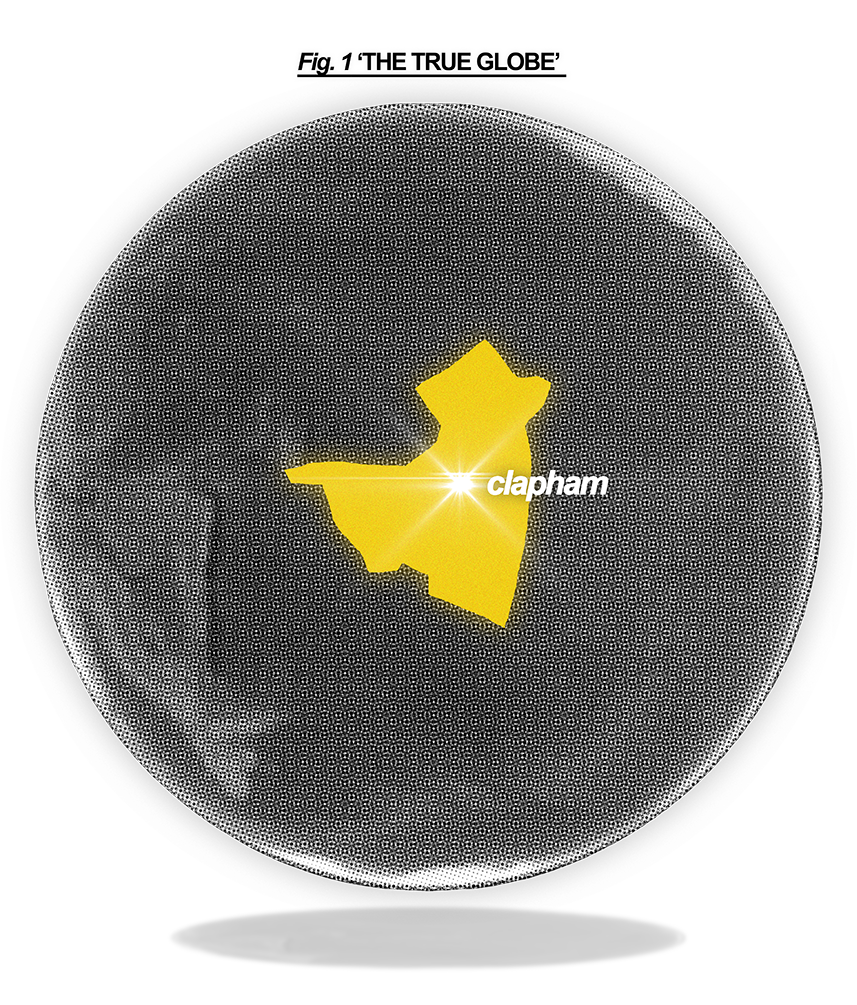
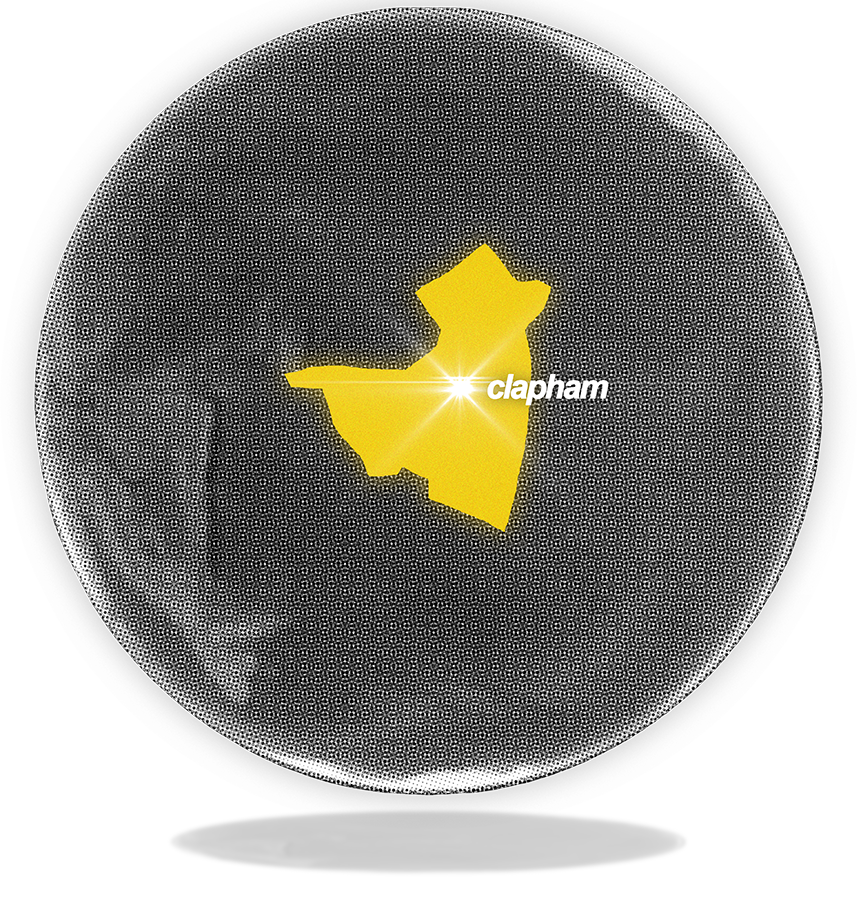
animation changes

diff --git a/index.html b/index.html
@@ -17,7 +17,29 @@
 
             <img id="logo" src="eye of ciff.png" />
 
-            <img id="globe" src="true globe2.png" alt="wireframe globe" />
+            <div id="globe-animation">
+                <img id="globe" src="true globe2.png" alt="wireframe globe with yellow outline of Clapham" />
+            </div>
+
+            <script>
+                //const orbitText = "the centre of the universe starts now";
+                const orbitText = "thecentreoftheuniversestartsnow";
+                const animationContainer = document.getElementById("globe-animation");
+                let offset = 0;
+                for (let char of orbitText.split("")) {
+                    console.log("hello");
+                    const letter = document.createElement("h1");
+                    letter.innerHTML = char;
+                    letter.classList.add("universe");
+                    const container = document.createElement("div");
+                    container.classList.add("universe-container");
+                    container.append(letter);
+                    container.style.animationDelay = `${(offset - 30) / 3}s`;
+                    container.style.top = `${-200 - offset * 30}px`;
+                    offset++;
+                    animationContainer.append(container);
+                }
+            </script>
 
             <p id="globe-caption"><span>Fig. 1</span>'THE TRUE GLOBE APPEARS'</p>
 
@@ -36,7 +58,7 @@
                 <img class="poster" src="film-poster.png" />
             </div>
 
-            <h1 id="universe">the centre of the universe starts now</h1>
+            <h1 class="universe">the centre of the universe starts now</h1>
 
             <p><span>knock@ciff.uk</span> if you're lost</p>
 

diff --git a/styles.css b/styles.css
@@ -63,6 +63,7 @@ body {
     flex-direction: column;
     align-items: center;
     margin: 10px;
+    overflow: hidden;
 }
 
 #title-image {
@@ -99,6 +100,8 @@ input {
     width: 90%;
     max-width: 400px;
     margin-top: 20px;
+    position: relative;
+    z-index: 1;
 }
 
 #globe-caption {
@@ -136,8 +139,69 @@ button:active {
     border: 1px black solid;
 }
 
-#universe {
+#globe-animation {
+    display: flex;
+    width: 100%;
+    max-width: 500px;
+    height: 400px;
+    flex-direction: column;
+    align-items: center;
+}
+
+.universe {
+    margin: 0px;
+    transform: rotate3d(1, 0, 0, 42deg);
     font-family: BookmanOldStyle;
+    text-shadow: 1px 1px 0 #ffffff, -1px 1px 0 #ffffff, -1px -1px 0 #ffffff, 1px -1px 0 #ffffff;
+}
+
+.universe-container {
+    top: -210px;
+    position: relative;
+    z-index: 2;
+    width: 30px;
+    height: 30px;
+
+    animation: saturn 13s infinite linear;
+}
+
+@keyframes saturn {
+    0% {
+        left: -45%;
+        z-index: 0;
+        font-size: 20px;
+        transform: rotate3d(0, 0, 1, 90deg);
+    }
+    25% {
+        left: 0%;
+        z-index: 0;
+        font-size: 10px;
+        transform: rotate3d(0, 0, 1, 180deg);
+    }
+    49% {
+        left: 45%;
+        z-index: 0;
+        font-size: 20px;
+        transform: rotate3d(0, 0, 1, 270deg);
+    }
+    50% {
+        left: 45%;
+        z-index: 2;
+        font-size: 20px;
+        transform: rotate3d(0, 0, 1, 270deg);
+    }
+    75% {
+        left: 0%;
+        z-index: 2;
+        font-size: 25px;
+        transform: rotate3d(0, 0, 1, 360deg);
+    }
+    100% {
+        left: -45%;
+        z-index: 2;
+        font-size: 20px;
+        transform: rotate3d(0, 0, 1, 450deg);
+    }
 }
 
 #name {
